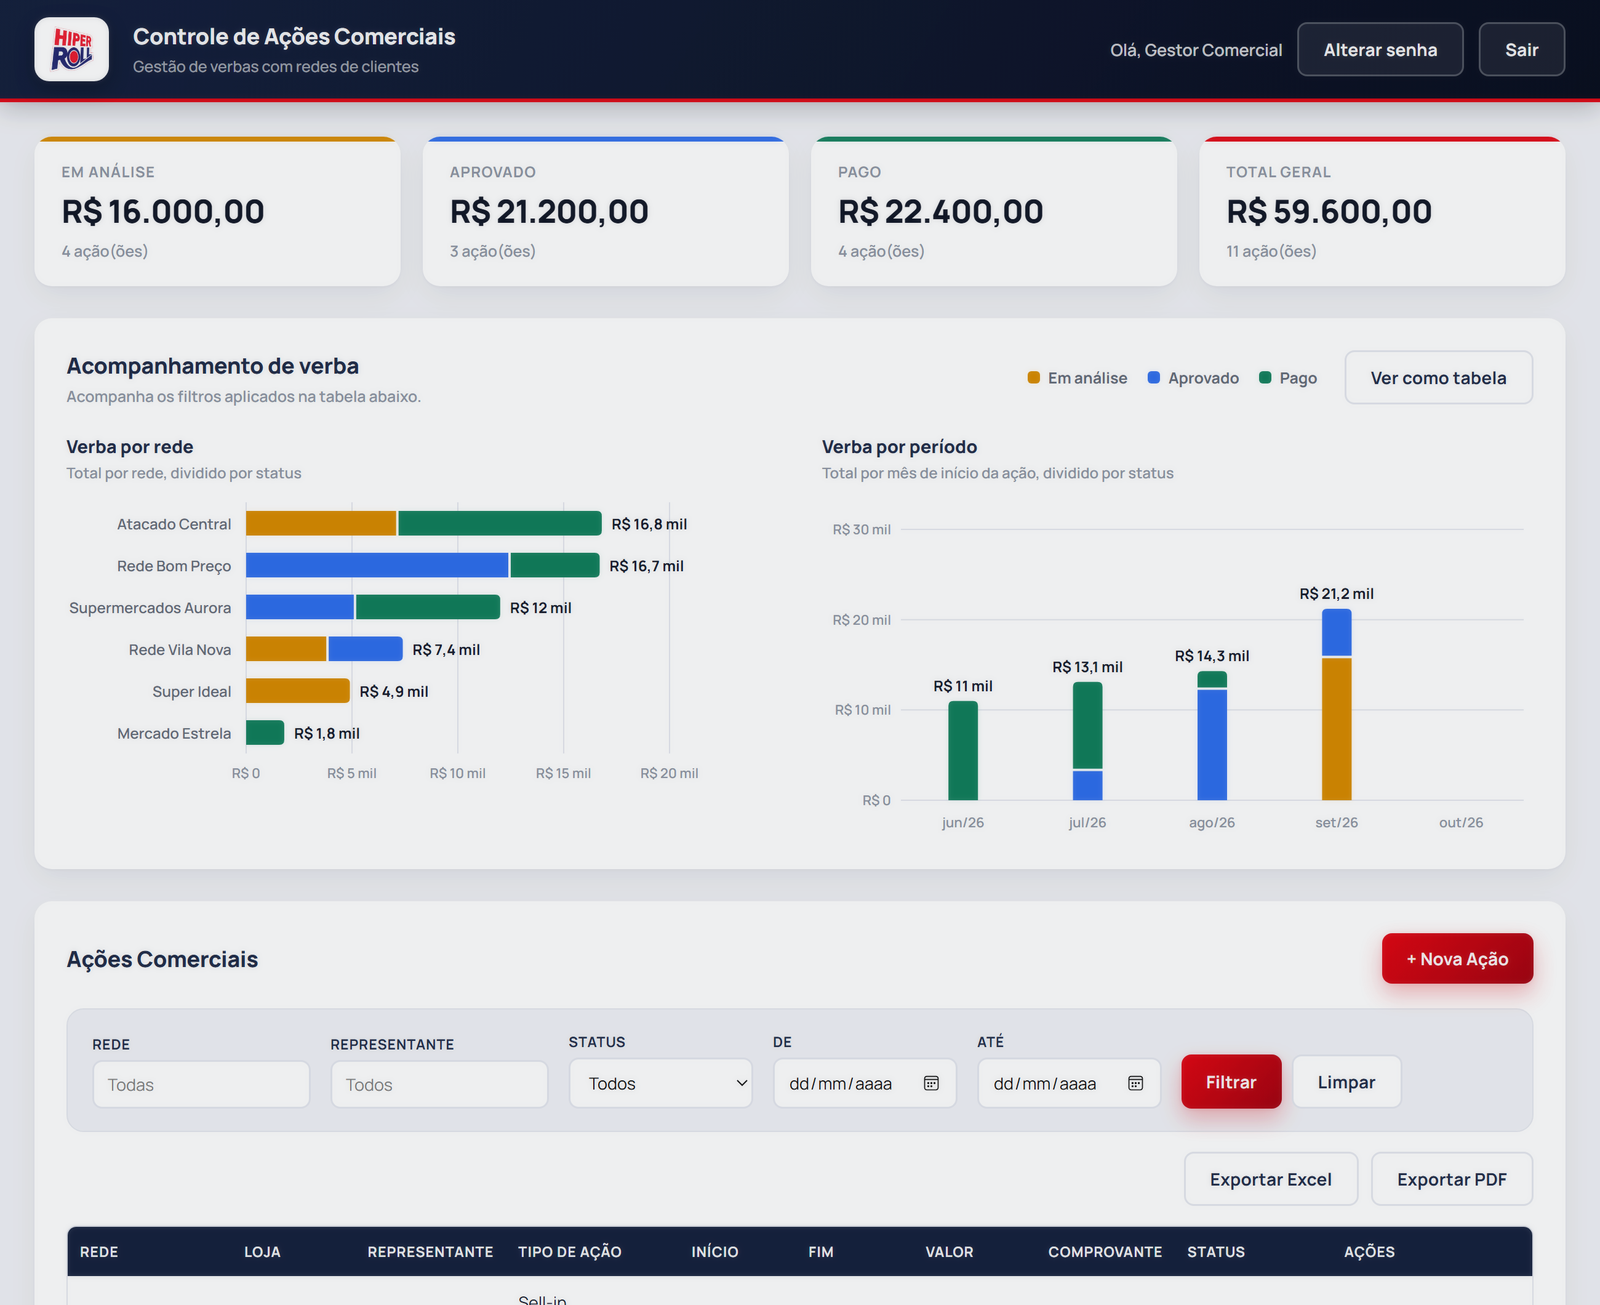
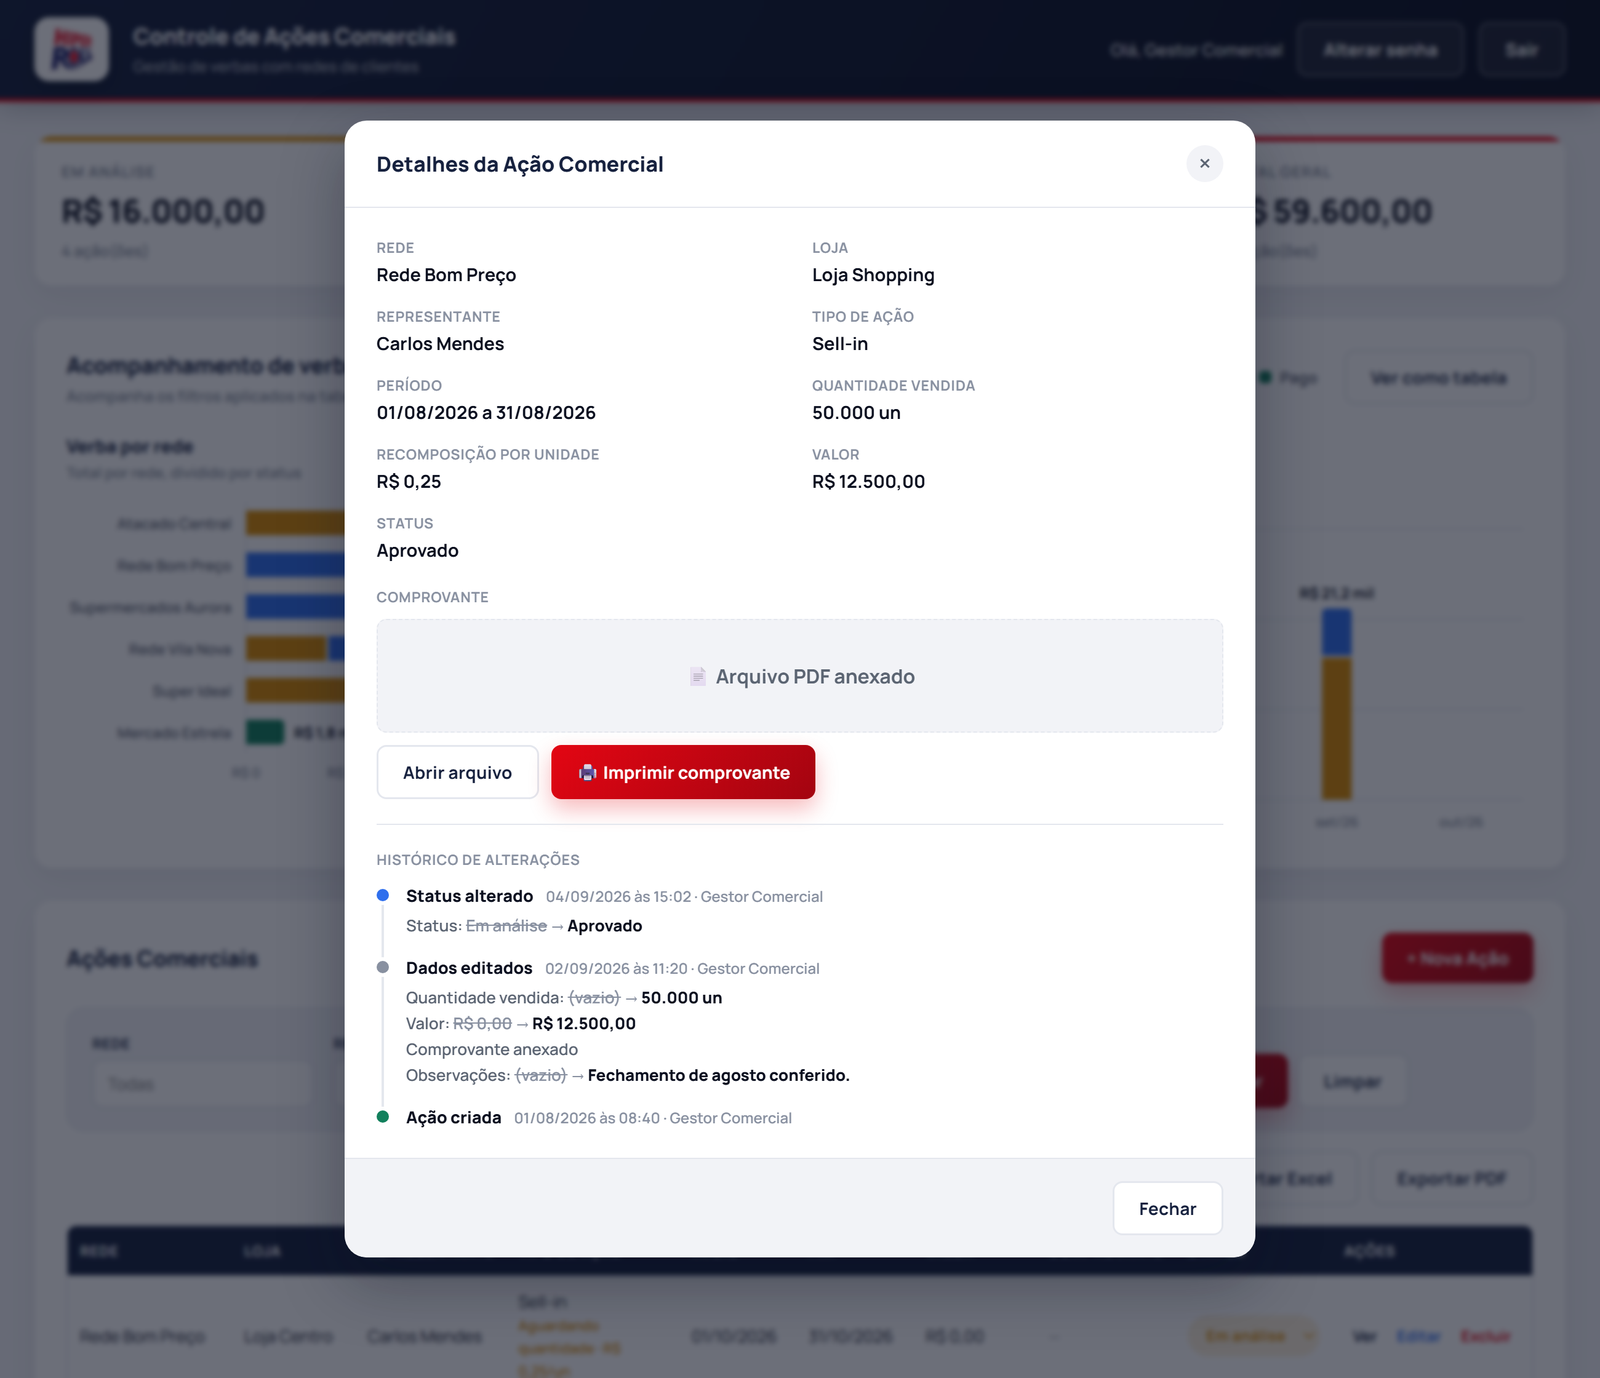
Adiciona histórico de alterações em cada ação
Cada ação passa a guardar uma lista de eventos (criação, edição e
mudança de status) com data, usuário e o valor de antes e de depois de
cada campo alterado. O histórico aparece como linha do tempo no modal de
detalhes; ações cadastradas antes disso mostram só a data de criação.

Também fixa o fuso horário do sistema em America/Sao_Paulo, já que os
horários agora são exibidos ao usuário.

diff --git a/assets/js/app.js b/assets/js/app.js
@@ -320,9 +320,95 @@
         }
 
         html += '</div>';
+        html += htmlHistorico(l);
 
         conteudoVisualizar.innerHTML = html;
         modalVisualizar.classList.add('aberto');
+    }
+
+    // ---------- Histórico de alterações ----------
+    const rotulosCampos = {
+        rede: 'Rede',
+        loja: 'Loja',
+        representante: 'Representante',
+        tipo_acao: 'Tipo de ação',
+        data_inicio: 'Data início',
+        data_fim: 'Data fim',
+        quantidade: 'Quantidade vendida',
+        valor_unitario: 'Recomposição por unidade',
+        valor: 'Valor',
+        observacoes: 'Observações',
+        status: 'Status',
+    };
+
+    const titulosEventos = {
+        criacao: 'Ação criada',
+        edicao: 'Dados editados',
+        status: 'Status alterado',
+    };
+
+    function formatarDataHora(texto) {
+        const [data, hora = ''] = String(texto).split(' ');
+        return `${formatarData(data)} às ${hora.slice(0, 5)}`;
+    }
+
+    function formatarValorHistorico(campo, valor) {
+        if (valor === null || valor === undefined || valor === '') return '(vazio)';
+        if (campo === 'valor' || campo === 'valor_unitario') return formatarMoeda(valor);
+        if (campo === 'quantidade') return Number(valor).toLocaleString('pt-BR') + ' un';
+        if (campo === 'data_inicio' || campo === 'data_fim') return formatarData(valor);
+        if (campo === 'status') return rotulosStatus[valor] || valor;
+        return String(valor);
+    }
+
+    function descreverAlteracao(a) {
+        if (a.campo === 'comprovante') {
+            return escapeHtml(a.de ? 'Comprovante substituído' : 'Comprovante anexado');
+        }
+        const rotulo = rotulosCampos[a.campo] || a.campo;
+        return `${escapeHtml(rotulo)}: <span class="valor-antigo">${escapeHtml(formatarValorHistorico(a.campo, a.de))}</span>`
+            + ` <span class="seta-historico" aria-label="para">→</span> <strong>${escapeHtml(formatarValorHistorico(a.campo, a.para))}</strong>`;
+    }
+
+    function htmlHistorico(l) {
+        const eventos = (l.historico || []).slice().reverse();
+        const temCriacao = eventos.some((ev) => ev.tipo === 'criacao');
+
+        const itens = eventos.map((ev) => {
+            const tipo = titulosEventos[ev.tipo] ? ev.tipo : 'edicao';
+            const alteracoes = (ev.alteracoes || []).map((a) => `<li>${descreverAlteracao(a)}</li>`).join('');
+            return `
+                <li class="evento evento-${tipo}">
+                    <div class="evento-cabecalho">
+                        <strong>${escapeHtml(titulosEventos[tipo])}</strong>
+                        <span>${escapeHtml(formatarDataHora(ev.quando))} · ${escapeHtml(ev.usuario || '')}</span>
+                    </div>
+                    ${alteracoes ? `<ul class="evento-alteracoes">${alteracoes}</ul>` : ''}
+                </li>
+            `;
+        });
+
+        // Ações cadastradas antes de o histórico existir só têm a data de criação.
+        if (!temCriacao && l.criado_em) {
+            itens.push(`
+                <li class="evento evento-criacao">
+                    <div class="evento-cabecalho">
+                        <strong>Ação criada</strong>
+                        <span>${escapeHtml(formatarDataHora(l.criado_em))}</span>
+                    </div>
+                </li>
+            `);
+        }
+
+        const aviso = temCriacao ? '' : '<p class="aviso-historico">Esta ação foi cadastrada antes de o histórico existir: alterações anteriores não foram registradas.</p>';
+
+        return `
+            <div class="secao-historico">
+                <span class="detalhe-rotulo">Histórico de alterações</span>
+                <ol class="linha-do-tempo">${itens.join('')}</ol>
+                ${aviso}
+            </div>
+        `;
     }
 
     // ---------- Ações na tabela (editar, excluir, mudar status) ----------

diff --git a/assets/css/style.css b/assets/css/style.css
@@ -567,6 +567,49 @@ a { text-decoration: none; color: inherit; }
 
 .acoes-comprovante { display: flex; gap: 10px; flex-wrap: wrap; }
 
+/* ---------- Histórico de alterações ---------- */
+.secao-historico { display: flex; flex-direction: column; gap: 12px; padding-top: 20px; border-top: 1px solid var(--cinza-borda); }
+
+.linha-do-tempo { list-style: none; margin: 0; padding: 0; }
+
+.evento { position: relative; padding: 0 0 16px 24px; }
+.evento:last-child { padding-bottom: 0; }
+.evento::before {
+    content: '';
+    position: absolute;
+    left: 0;
+    top: 4px;
+    width: 10px;
+    height: 10px;
+    border-radius: 50%;
+    background: var(--cinza-texto-suave);
+    box-shadow: 0 0 0 3px var(--branco);
+    z-index: 1;
+}
+.evento::after {
+    content: '';
+    position: absolute;
+    left: 4px;
+    top: 8px;
+    bottom: -4px;
+    width: 2px;
+    background: var(--cinza-borda);
+}
+.evento:last-child::after { display: none; }
+.evento-status::before { background: var(--azul-info); }
+.evento-criacao::before { background: var(--verde); }
+
+.evento-cabecalho { display: flex; flex-wrap: wrap; align-items: baseline; gap: 2px 10px; }
+.evento-cabecalho strong { font-size: 13.5px; font-weight: 800; color: var(--azul-marinho-escuro); }
+.evento-cabecalho span { font-size: 12px; font-weight: 600; color: var(--cinza-texto-suave); }
+
+.evento-alteracoes { list-style: none; margin: 6px 0 0; padding: 0; display: flex; flex-direction: column; gap: 3px; font-size: 13px; font-weight: 600; color: var(--cinza-texto); }
+.evento-alteracoes strong { color: var(--azul-marinho-escuro); font-weight: 800; }
+.valor-antigo { text-decoration: line-through; color: var(--cinza-texto-suave); }
+.seta-historico { color: var(--cinza-texto-suave); }
+
+.aviso-historico { margin: 0; font-size: 12px; font-weight: 600; color: var(--cinza-texto-suave); }
+
 /* ---------- Gráficos ---------- */
 .painel-graficos { margin-bottom: 26px; transition: opacity .2s ease; }
 .painel-graficos.carregando .grade-graficos { opacity: .55; }

diff --git a/api/acoes.php b/api/acoes.php
@@ -2,6 +2,7 @@
 require_once __DIR__ . '/../includes/dados.php';
 require_once __DIR__ . '/../includes/auth.php';
 require_once __DIR__ . '/../includes/consulta_acoes.php';
+require_once __DIR__ . '/../includes/historico.php';
 
 exigirLoginApi();
 header('Content-Type: application/json; charset=utf-8');
@@ -137,7 +138,7 @@ switch ($acaoRequisicao) {
                             $comprovanteFinal = $nomeArquivo;
                         }
 
-                        $linha = [
+                        $atualizada = [
                             'id' => $linha['id'],
                             'rede' => $rede,
                             'loja' => $loja,
@@ -153,7 +154,15 @@ switch ($acaoRequisicao) {
                             'comprovante' => $comprovanteFinal,
                             'criado_em' => $linha['criado_em'] ?? date('Y-m-d H:i:s'),
                             'atualizado_em' => date('Y-m-d H:i:s'),
+                            'historico' => $linha['historico'] ?? [],
                         ];
+
+                        $alteracoes = diferencasAcao($linha, $atualizada);
+                        if ($alteracoes) {
+                            $atualizada['historico'][] = eventoHistorico('edicao', $alteracoes);
+                        }
+
+                        $linha = $atualizada;
                         $resultado = ['sucesso' => true, 'id' => $linha['id']];
                         break;
                     }
@@ -181,6 +190,7 @@ switch ($acaoRequisicao) {
                     'comprovante' => $nomeArquivo,
                     'criado_em' => date('Y-m-d H:i:s'),
                     'atualizado_em' => date('Y-m-d H:i:s'),
+                    'historico' => [eventoHistorico('criacao')],
                 ];
                 $resultado = ['sucesso' => true, 'id' => $novoId];
             }
@@ -215,8 +225,14 @@ switch ($acaoRequisicao) {
         alterarAcoes(function (array $linhas) use ($id, $status) {
             foreach ($linhas as &$linha) {
                 if ((string)$linha['id'] === (string)$id) {
-                    $linha['status'] = $status;
-                    $linha['atualizado_em'] = date('Y-m-d H:i:s');
+                    $statusAnterior = $linha['status'] ?? null;
+                    if ($statusAnterior !== $status) {
+                        $linha['historico'][] = eventoHistorico('status', [
+                            ['campo' => 'status', 'de' => $statusAnterior, 'para' => $status],
+                        ]);
+                        $linha['status'] = $status;
+                        $linha['atualizado_em'] = date('Y-m-d H:i:s');
+                    }
                     break;
                 }
             }

diff --git a/includes/historico.php b/includes/historico.php
@@ -1,0 +1,48 @@
+<?php
+// Campos de uma ação acompanhados no histórico de alterações.
+const CAMPOS_HISTORICO = [
+    'rede', 'loja', 'representante', 'tipo_acao', 'data_inicio', 'data_fim',
+    'quantidade', 'valor_unitario', 'valor', 'observacoes', 'comprovante',
+];
+
+const CAMPOS_NUMERICOS_HISTORICO = ['quantidade', 'valor_unitario', 'valor'];
+
+/**
+ * Monta um evento do histórico: quem fez, quando e o que mudou.
+ * $tipo: 'criacao', 'edicao' ou 'status'.
+ */
+function eventoHistorico(string $tipo, array $alteracoes = []): array
+{
+    return [
+        'quando' => date('Y-m-d H:i:s'),
+        'usuario' => $_SESSION['usuario_nome'] ?? 'Sistema',
+        'tipo' => $tipo,
+        'alteracoes' => $alteracoes,
+    ];
+}
+
+/**
+ * Compara a ação antes e depois de uma edição e devolve só os campos que mudaram,
+ * no formato [['campo' => ..., 'de' => ..., 'para' => ...], ...].
+ */
+function diferencasAcao(array $antes, array $depois): array
+{
+    $alteracoes = [];
+
+    foreach (CAMPOS_HISTORICO as $campo) {
+        $de = $antes[$campo] ?? null;
+        $para = $depois[$campo] ?? null;
+
+        // Números são comparados pelo valor (12500 e 12500.0 são iguais);
+        // o restante, como texto (null e '' contam como "vazio").
+        $iguais = in_array($campo, CAMPOS_NUMERICOS_HISTORICO, true) && is_numeric($de) && is_numeric($para)
+            ? abs((float)$de - (float)$para) < 0.00001
+            : (string)$de === (string)$para;
+
+        if (!$iguais) {
+            $alteracoes[] = ['campo' => $campo, 'de' => $de, 'para' => $para];
+        }
+    }
+
+    return $alteracoes;
+}

diff --git a/includes/config.php b/includes/config.php
@@ -1,4 +1,7 @@
 <?php
+// Datas e horas gravadas pelo sistema (cadastro, histórico, relatórios) usam o horário de Brasília.
+date_default_timezone_set('America/Sao_Paulo');
+
 // Pasta (com barra no final) onde ficam os arquivos de dados (JSON) do sistema.
 define('PASTA_DADOS', __DIR__ . '/../data/');
 

diff --git a/README.md b/README.md
@@ -49,9 +49,9 @@ Este sistema substitui o formulário por um painel único, onde o gestor comerci
 
 ## 📸 Telas
 
-| Nova ação (Sell-in com cálculo automático) | Detalhes da ação e comprovante |
+| Nova ação (Sell-in com cálculo automático) | Detalhes, comprovante e histórico de alterações |
 | :---: | :---: |
-| <img src="docs/screenshots/nova-acao.png" alt="Formulário de nova ação comercial" width="430"> | <img src="docs/screenshots/detalhes.png" alt="Modal de detalhes com prévia do comprovante" width="430"> |
+| <img src="docs/screenshots/nova-acao.png" alt="Formulário de nova ação comercial" width="430"> | <img src="docs/screenshots/detalhes.png" alt="Modal de detalhes com comprovante e histórico de alterações" width="430"> |
 | **Login** | **Troca de senha** |
 | <img src="docs/screenshots/login.jpg" alt="Tela de login" width="430"> | <img src="docs/screenshots/alterar-senha.png" alt="Modal de troca de senha" width="430"> |
 
@@ -64,6 +64,7 @@ Este sistema substitui o formulário por um painel único, onde o gestor comerci
 | 📎 | **Comprovante** | Foto ou PDF anexado a cada ação (JPG, PNG, WEBP ou PDF, até 8 MB). |
 | 👁 | **Visualização e impressão** | Um modal mostra todos os dados da ação e a prévia do comprovante. O comprovante pode ser impresso em uma página com o contexto da ação. |
 | 🔄 | **Status** | Em análise, Aprovado ou Pago, alterado direto na tabela. |
+| 🕓 | **Histórico de alterações** | Cada ação guarda quem criou, editou ou mudou o status, quando, e o valor de antes e de depois de cada campo alterado. |
 | 📈 | **Totais** | Cards com o valor e a quantidade de ações em cada status. |
 | 📊 | **Gráficos** | Verba por rede e verba por mês, divididas por status, com detalhe ao passar o mouse e uma visão alternativa em tabela. |
 | 🔍 | **Filtros** | Por rede, representante, status e período. Os totais, os gráficos e as exportações acompanham o filtro. |
@@ -144,6 +145,7 @@ includes/
   dados.php                Leitura e escrita dos arquivos JSON
   consulta_acoes.php       Filtros usados pela tabela, pelo Excel e pelo PDF
   auth.php                 Controle de sessão
+  historico.php            Registro das alterações de cada ação
   limite_login.php         Limite de tentativas de login por IP
 
 assets/
@@ -202,9 +204,9 @@ topo do painel.
 - [x] Gráficos de acompanhamento de verba por rede e por período
 - [x] Troca de senha pelo usuário
 - [x] Limite de tentativas de login
+- [x] Histórico de alterações de cada ação
 - [ ] Mais de um usuário, com níveis de acesso (por exemplo, o representante vê só as
       próprias ações)
-- [ ] Histórico de alterações de cada ação
 
 ## 👤 Autor
 
